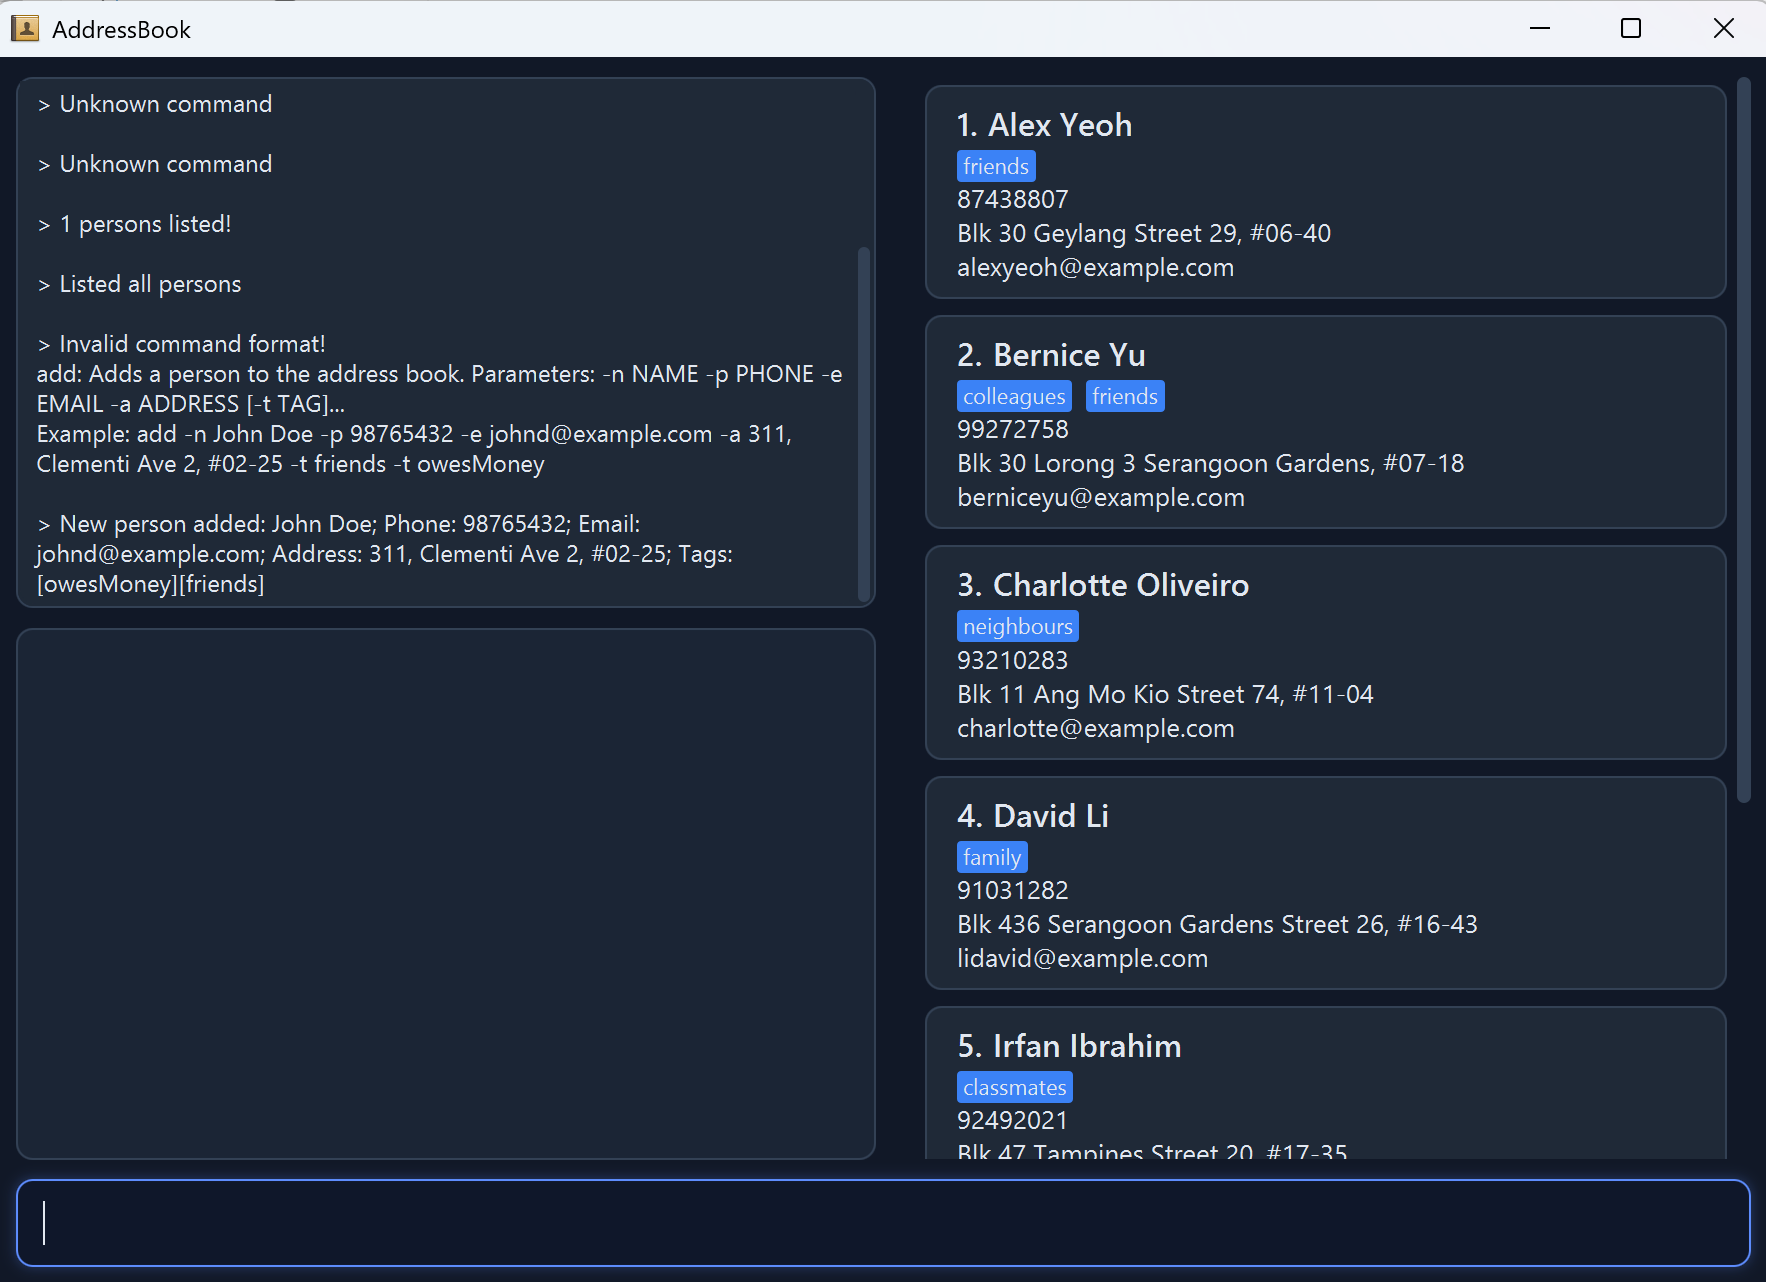
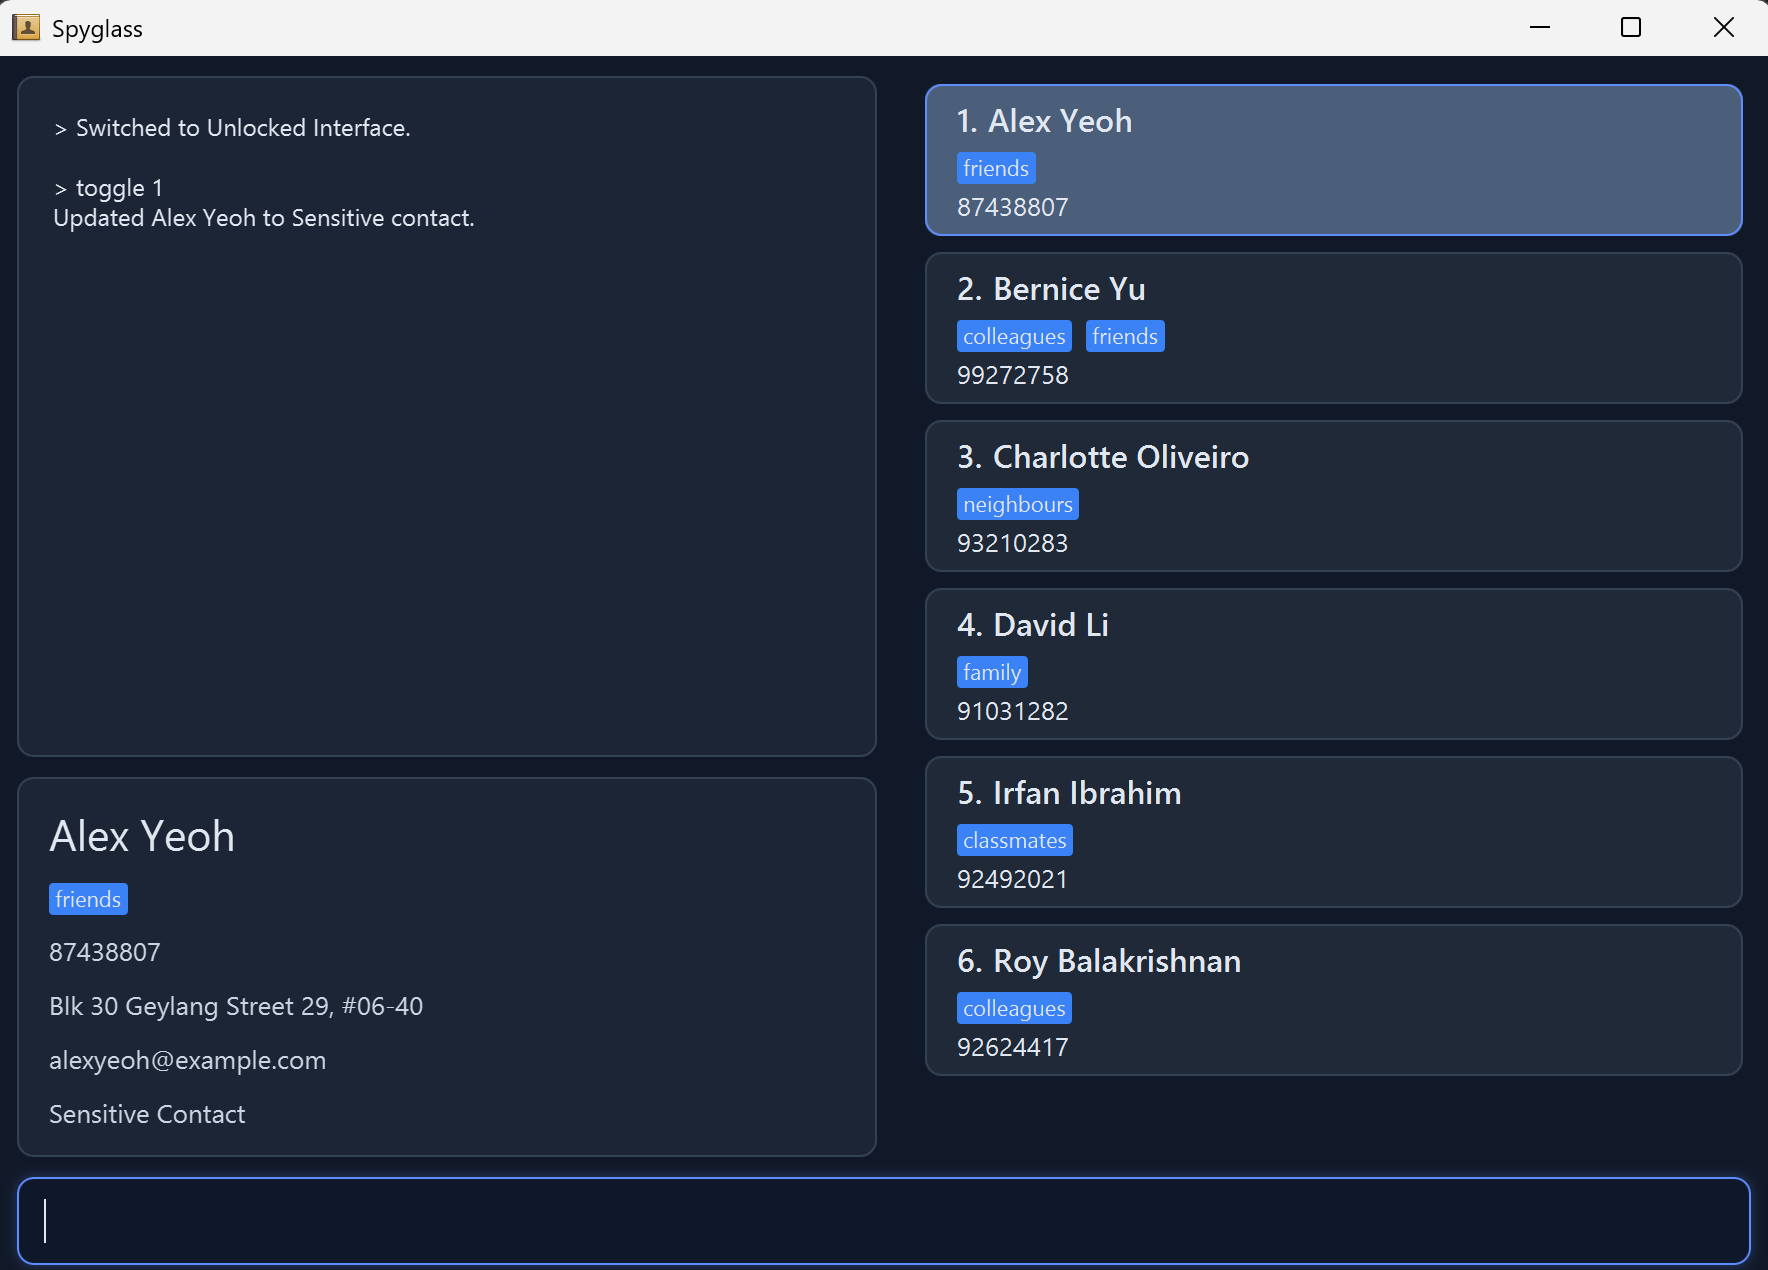
Update Command Summary table, UI images and setup command

diff --git a/docs/UserGuide.md b/docs/UserGuide.md
@@ -62,17 +62,19 @@ Get the latest `.jar` file from our [Releases page](https://github.com/AY2526S2-
 Copy the `.jar` file into a folder of your choice (e.g., `Documents/Spyglass`). This will be your **home folder** where your data will be stored.
 
 ### 4. Run the application
-* **Windows:** * Navigate to your Spyglass folder in File Explorer.
+* **Windows:** Navigate to your Spyglass folder in File Explorer.
     * Right-click in the folder and select **“Open Terminal here”** or **“Open PowerShell window here”**.
     * Type `java -jar Spyglass.jar` and press `Enter`.
-* **Mac:** * Press `Cmd + Space`, type `terminal`, and press `Enter`.
+* **Mac:** Press `Cmd + Space`, type `terminal`, and press `Enter`.
     * Type `cd ` followed by a space, then drag your Spyglass folder into the window and press `Enter`.
     * Type `java -jar Spyglass.jar` and press `Enter`.
-* **Linux:** * Open Terminal and navigate to your folder (e.g., `cd ~/Downloads`).
+* **Linux:** Open Terminal and navigate to your folder (e.g., `cd ~/Downloads`).
     * Type `java -jar Spyglass.jar` and press `Enter`.
 
 ### 5. Secure your data
-On your first launch, you will be prompted to set a password. This password will be used to access your sensitive contacts.
+On your first launch, you will be **prompted to set a password**. This password will be **used to access your sensitive contacts**.
+
+For the examples in the rest of this guide, we will assume you have set your password as `mySecurePassword123`.
   
 <box type="info" seamless>
 Your password cannot be empty, contain spaces or non-standard symbols (emojis, foreign language characters).
@@ -226,31 +228,35 @@ Format: `exit`
 
 <box type="info" icon=":fa-solid-user-secret:" seamless>
 
-Restricted commands are mode-dependent, whose **availability changes based on whether Spyglass is in Locked or Unlocked mode**. When the app is in **Locked mode**, entering a restricted command incorrectly **will result in an `Unknown command` message**.
+Restricted commands are mode-dependent, whose **availability changes based on whether Spyglass is in Locked or Unlocked mode**. With the exception of `unlock` (which is only available in Locked mode), all other restricted commands are accessible only in **Unlocked mode**.
+
+When the app is in **Locked mode**, entering a restricted command incorrectly **will result in an `Unknown command` message**.
 </box>
 
 #### Locking the app : `lock`
 
-Locks the app and switches to Locked mode, displaying only the contacts in the Locked mode list.
+Switches the application to **Locked mode**, hiding all sensitive entries and displaying only the public contact list.
 
 Format: `lock`
 
+* Once locked, the application window title changes to **AddressBook** to mask the app's true identity.
+
 Example:
-* `lock` : Locks the app and displays the limited contact list.
+* `lock` : Hides sensitive contacts and returns the app to a low-profile state.
 
 #### Unlocking the app : `unlock`
 
-Unlocks the app and switches to Unlocked mode by verifying your password. This command displays the list of contacts in the Unlocked mode list.
+Switches the application to **Unlocked mode** by verifying your password. This reveals your hidden sensitive contacts alongside your existing public contacts.
 
 Format: `unlock PASSWORD`
 
-* You must provide the correct password that was set during the setup.
-* If the password is incorrect, the app will remain locked.
+* You must provide the correct password that was configured during the setup process.
+* If the password is incorrect, the app remains in Locked mode and sensitive contacts stay hidden.
 
 Examples:
-* `unlock mySecurePassword123` : Unlocks the app with the provided password.
+* `unlock mySecurePassword123` : Unlocks the app and reveals the full contact list.
 
-#### Reconfiguring settings: `setup`
+#### Reconfiguring password: `setup`
 
 Brings you to the initial configuration page to update your password.
 
@@ -258,8 +264,20 @@ Format: `setup`
 
 * Using this command allows you to change the password used to reveal your sensitive contacts.
 
+<box type="info" seamless>
+
+The password is only updated once the setup process is fully completed, which can be seen in the result history with `> Setup process completed successfully.`. If the setup page is exited before this message appears, the password will not be updated.
+
+</box>
+
 Examples:
-* `setup` : Switches the view to the setup interface for credential updates.
+* `setup` : Switches the view to the setup interface for password updates.
+
+![result for 'setup'](images/setupCommandResult.png)
+
+* To check whether the password has been successfully updated, check the result history for the message `> Setup process completed successfully.`.
+
+![success message for 'setup'](images/setupSuccess.png)
 
 #### Toggling a contact status : `toggle`
 
@@ -270,7 +288,6 @@ Format: `toggle INDEX`
 * Toggles the contact at the specified `INDEX`.
 * The index refers to the index number shown in the displayed person list.
 * The index **must be a positive integer** `1, 2, 3, ...`
-* This command is only available in **Unlocked Mode**.
 * A contact toggled to `Sensitive` will no longer appear in Locked Mode.
 * A contact toggled to `Public` will appear in Locked Mode.
 
@@ -290,10 +307,12 @@ The file stores the contact data at the top, followed by your password.
 <box type="warning" seamless>
 
 **Caution:**
-If the password field is missing, empty or contains spaces, the app will prompt you to set a password again when you next open it.
-If your changes to the data file makes its format invalid, Spyglass will discard all data and start with an empty data file at the next run.  Hence, it is recommended to take a backup of the file before editing it.<br>
-Furthermore, certain edits can cause the Spyglass to behave in unexpected ways (e.g., if a value entered is outside the acceptable range). Therefore, edit the data file only if you are confident that you can update it correctly.
+* If the password field is **missing, empty**, or contains **spaces or invalid characters** (e.g., emojis or foreign characters), the app will prompt you to set a password again upon the next launch.
+* If manual edits to the data file make its **format invalid**, SpyGlass will **discard all data** and start with an empty file at the next run.
+  </box>
 </box>
+
+As certain edits can cause SpyGlass to behave in unexpected ways, it is **highly recommended to take a backup** of the file before editing it. We suggest editing the data file **only if you are confident** that you can update it correctly according to the specified format.
 
 --------------------------------------------------------------------------------------------------------------------
 
@@ -310,25 +329,19 @@ Furthermore, certain edits can cause the Spyglass to behave in unexpected ways (
 
 --------------------------------------------------------------------------------------------------------------------
 
-## Command summary
+## Command Summary
 
-Action     | Format, Examples
------------|----------------------------------------------------------------------------------------------------------------------------------------------------------------------
-**Add**    | `add -n NAME -p PHONE_NUMBER -e EMAIL -a ADDRESS [-t TAG]…` <br> e.g., `add -n James Ho -p 22224444 -e jamesho@example.com -a 123, Clementi Rd, 1234665 -t friend -t colleague`
-**Clear**  | `clear`
-**Delete** | `delete INDEX`<br> e.g., `delete 3`
-**Edit**   | `edit INDEX [-n NAME] [-p PHONE_NUMBER] [-e EMAIL] [-a ADDRESS] [-t TAG]…`<br> e.g.,`edit 2 -n James Lee -e jameslee@example.com`
-**Find**   | `find KEYWORD [MORE_KEYWORDS]`<br> e.g., `find James Jake`
-**List**   | `list`
-**Lock**   | `lock`
-**Toggle** | `toggle INDEX`<br> e.g., `toggle 1`
-**Unlock** | `unlock PASSWORD`<br> e.g., `unlock mySecurePassword123`
-**Help**   | `help [COMMAND]`<br> e.g., `help add`
+| Action | Format & Examples | Mode Availability |
+|--------|-------------------|-------------------|
+| **Add** | `add -n NAME -p PHONE -e EMAIL -a ADDRESS [-t TAG]…` <br> e.g., `add -n James Ho -p 22224444 -e jamesho@example.com -a 123, Clementi Rd` | Any |
+| **Clear** | `clear` | Any |
+| **Delete** | `delete INDEX` <br> e.g., `delete 3` | Any |
+| **Edit** | `edit INDEX [-n NAME] [-p PHONE] [-e EMAIL] [-a ADDRESS] [-t TAG]…` <br> e.g., `edit 2 -n James Lee` | Any |
+| **Find** | `find KEYWORD [MORE_KEYWORDS]` <br> e.g., `find James Jake` | Any |
+| **Help** | `help [COMMAND]` <br> e.g., `help add` | Any |
+| **List** | `list` | Any |
+| **Unlock** | `unlock PASSWORD` <br> e.g., `unlock mySecurePassword123` | **Locked Only** |
+| **Lock** | `lock` | **Unlocked Only** |
+| **Setup** | `setup` | **Unlocked Only** |
+| **Toggle** | `toggle INDEX` <br> e.g., `toggle 1` | **Unlocked Only** |
 
-## Availability Table for Restricted Commands
-
-| Command | Available In |
-|---------|--------------|
-| `unlock` | Locked Mode |
-| `lock`   | Unlocked Mode |
-| `toggle` | Unlocked Mode |
